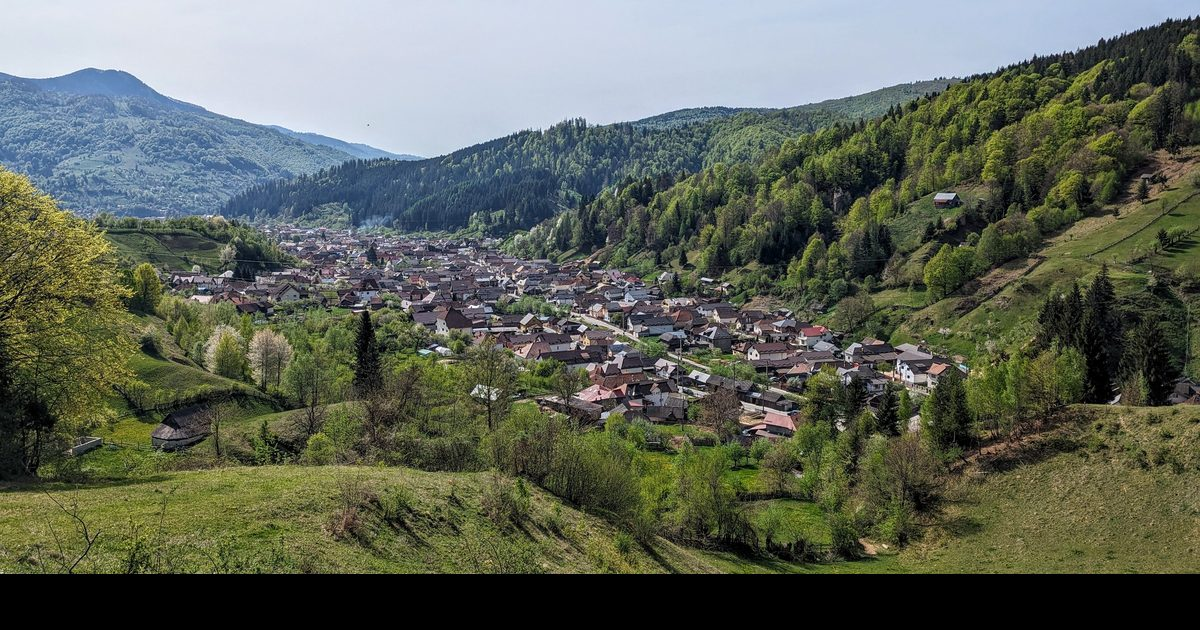
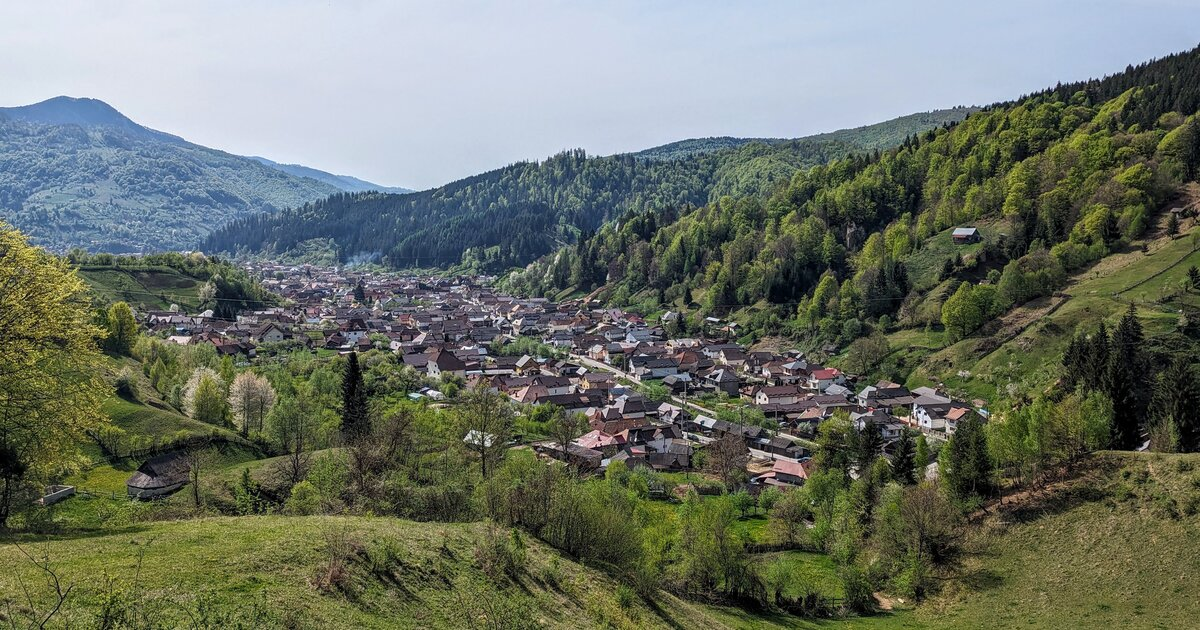
Add new hero images for enhanced visual content
- Added hero-2800.jpg (1211 KB)
- Added hero-3200.jpg (1539 KB)
- Added hero-3600.jpg (1904 KB)
- Added hero-4080.jpg (2473 KB)

diff --git a/css/style.css b/css/style.css
@@ -102,6 +102,7 @@ h2 { font-family: var(--serif); font-weight: 400; font-size: 36px; line-height: 
 .section__sub { font-size: 16px; color: var(--muted); }
 
 /* Hero */
+/* The hero photo's sizes attribute in index.html is worked out from these heights (620px, 500px on phones) */
 .hero {
   position: relative; height: 620px; overflow: hidden; background: var(--ink); color: #fff;
 }
@@ -113,8 +114,9 @@ h2 { font-family: var(--serif); font-weight: 400; font-size: 36px; line-height: 
   position: absolute; inset: 0;
   background: linear-gradient(180deg, rgba(14,26,20,0.08) 0%, rgba(14,26,20,0.40) 45%, rgba(14,26,20,0.86) 100%);
 }
+/* right: 19px matches the visible gap above the letters (16px plus the line spacing above them) */
 .hero__caption {
-  position: absolute; right: var(--gutter); top: 16px;
+  position: absolute; right: 19px; top: 16px;
   font-size: 12px; color: rgba(255,255,255,0.8);
 }
 .hero__content {

diff --git a/index.html b/index.html
@@ -81,10 +81,10 @@
   <main>
     <section class="hero" aria-label="Introduction">
       <img class="hero__photo"
-           src="img/hero-1800.jpg"
-           srcset="img/hero-900.jpg 900w, img/hero-1800.jpg 1800w"
-           sizes="100vw"
-           width="1800" height="896"
+           src="img/hero-2000.jpg"
+           srcset="img/hero-1600.jpg 1600w, img/hero-2000.jpg 2000w, img/hero-2400.jpg 2400w, img/hero-2800.jpg 2800w, img/hero-3200.jpg 3200w, img/hero-3600.jpg 3600w, img/hero-4080.jpg 4080w"
+           sizes="(max-width: 640px) 1005px, (max-width: 1246px) 1247px, 100vw"
+           width="2000" height="995"
            alt="Rucăr village and forested hills in the Southern Carpathians under a stormy sky"
            fetchpriority="high">
       <div class="hero__shade" aria-hidden="true"></div>
